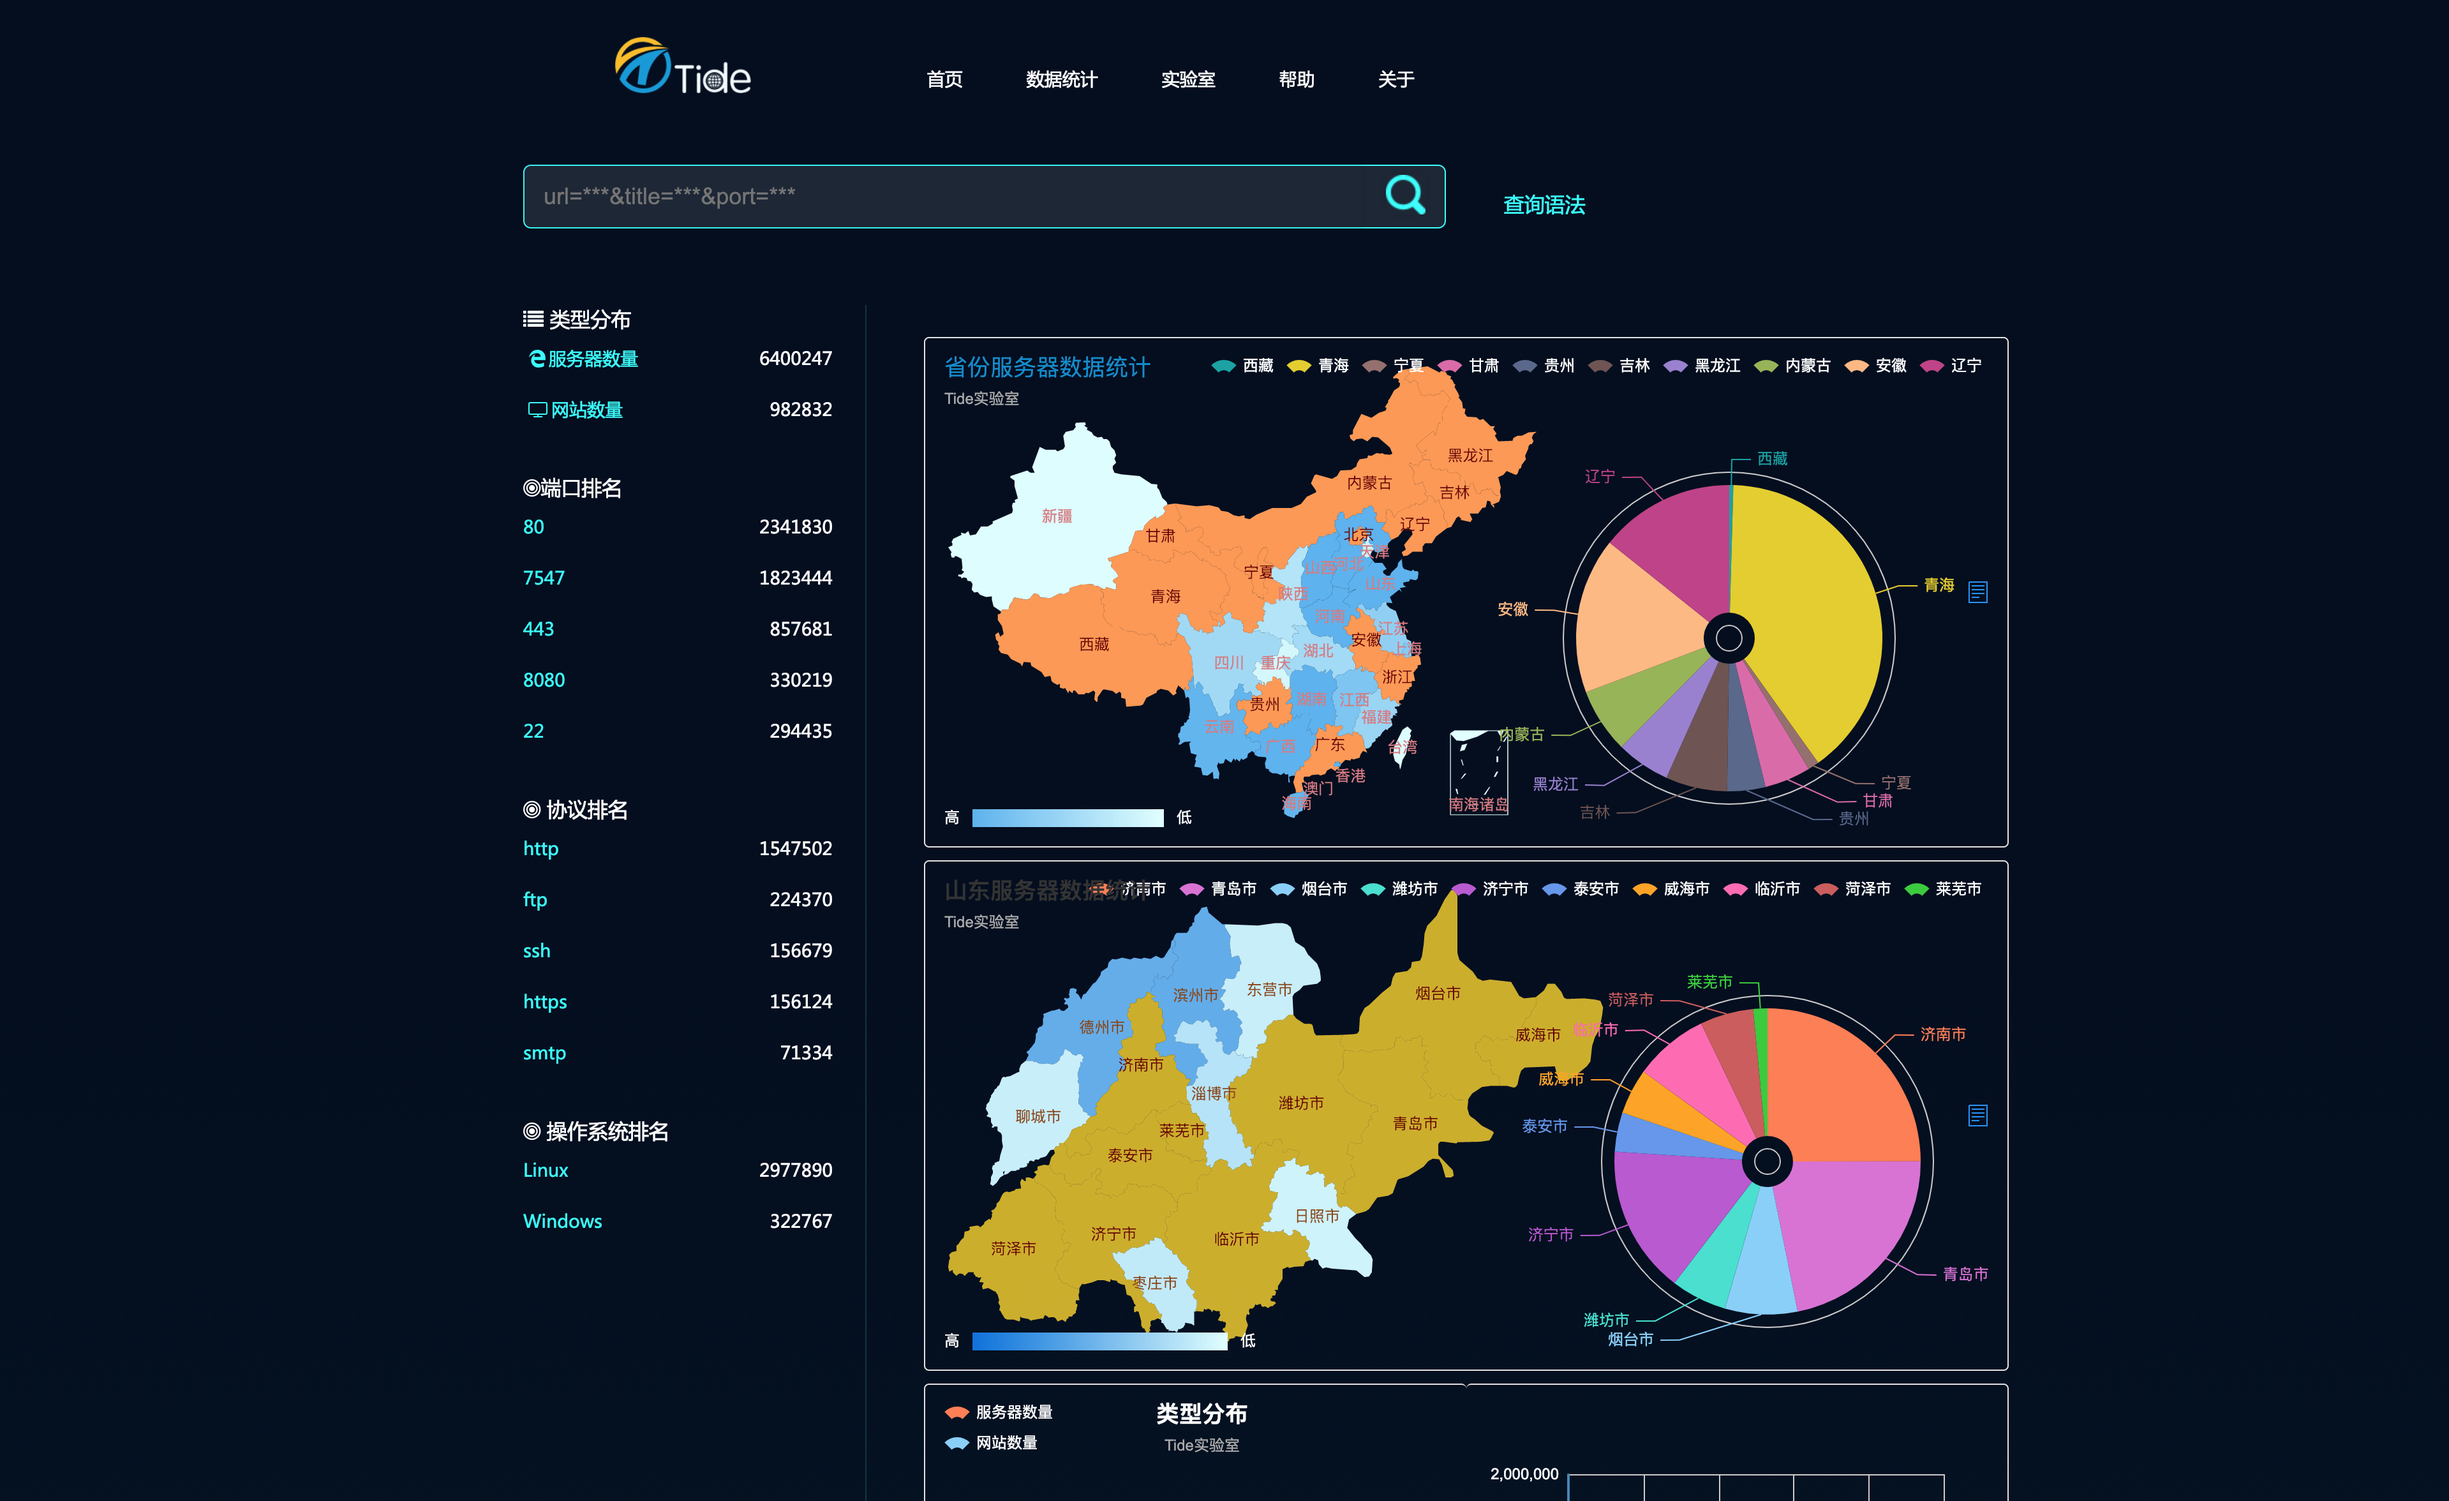
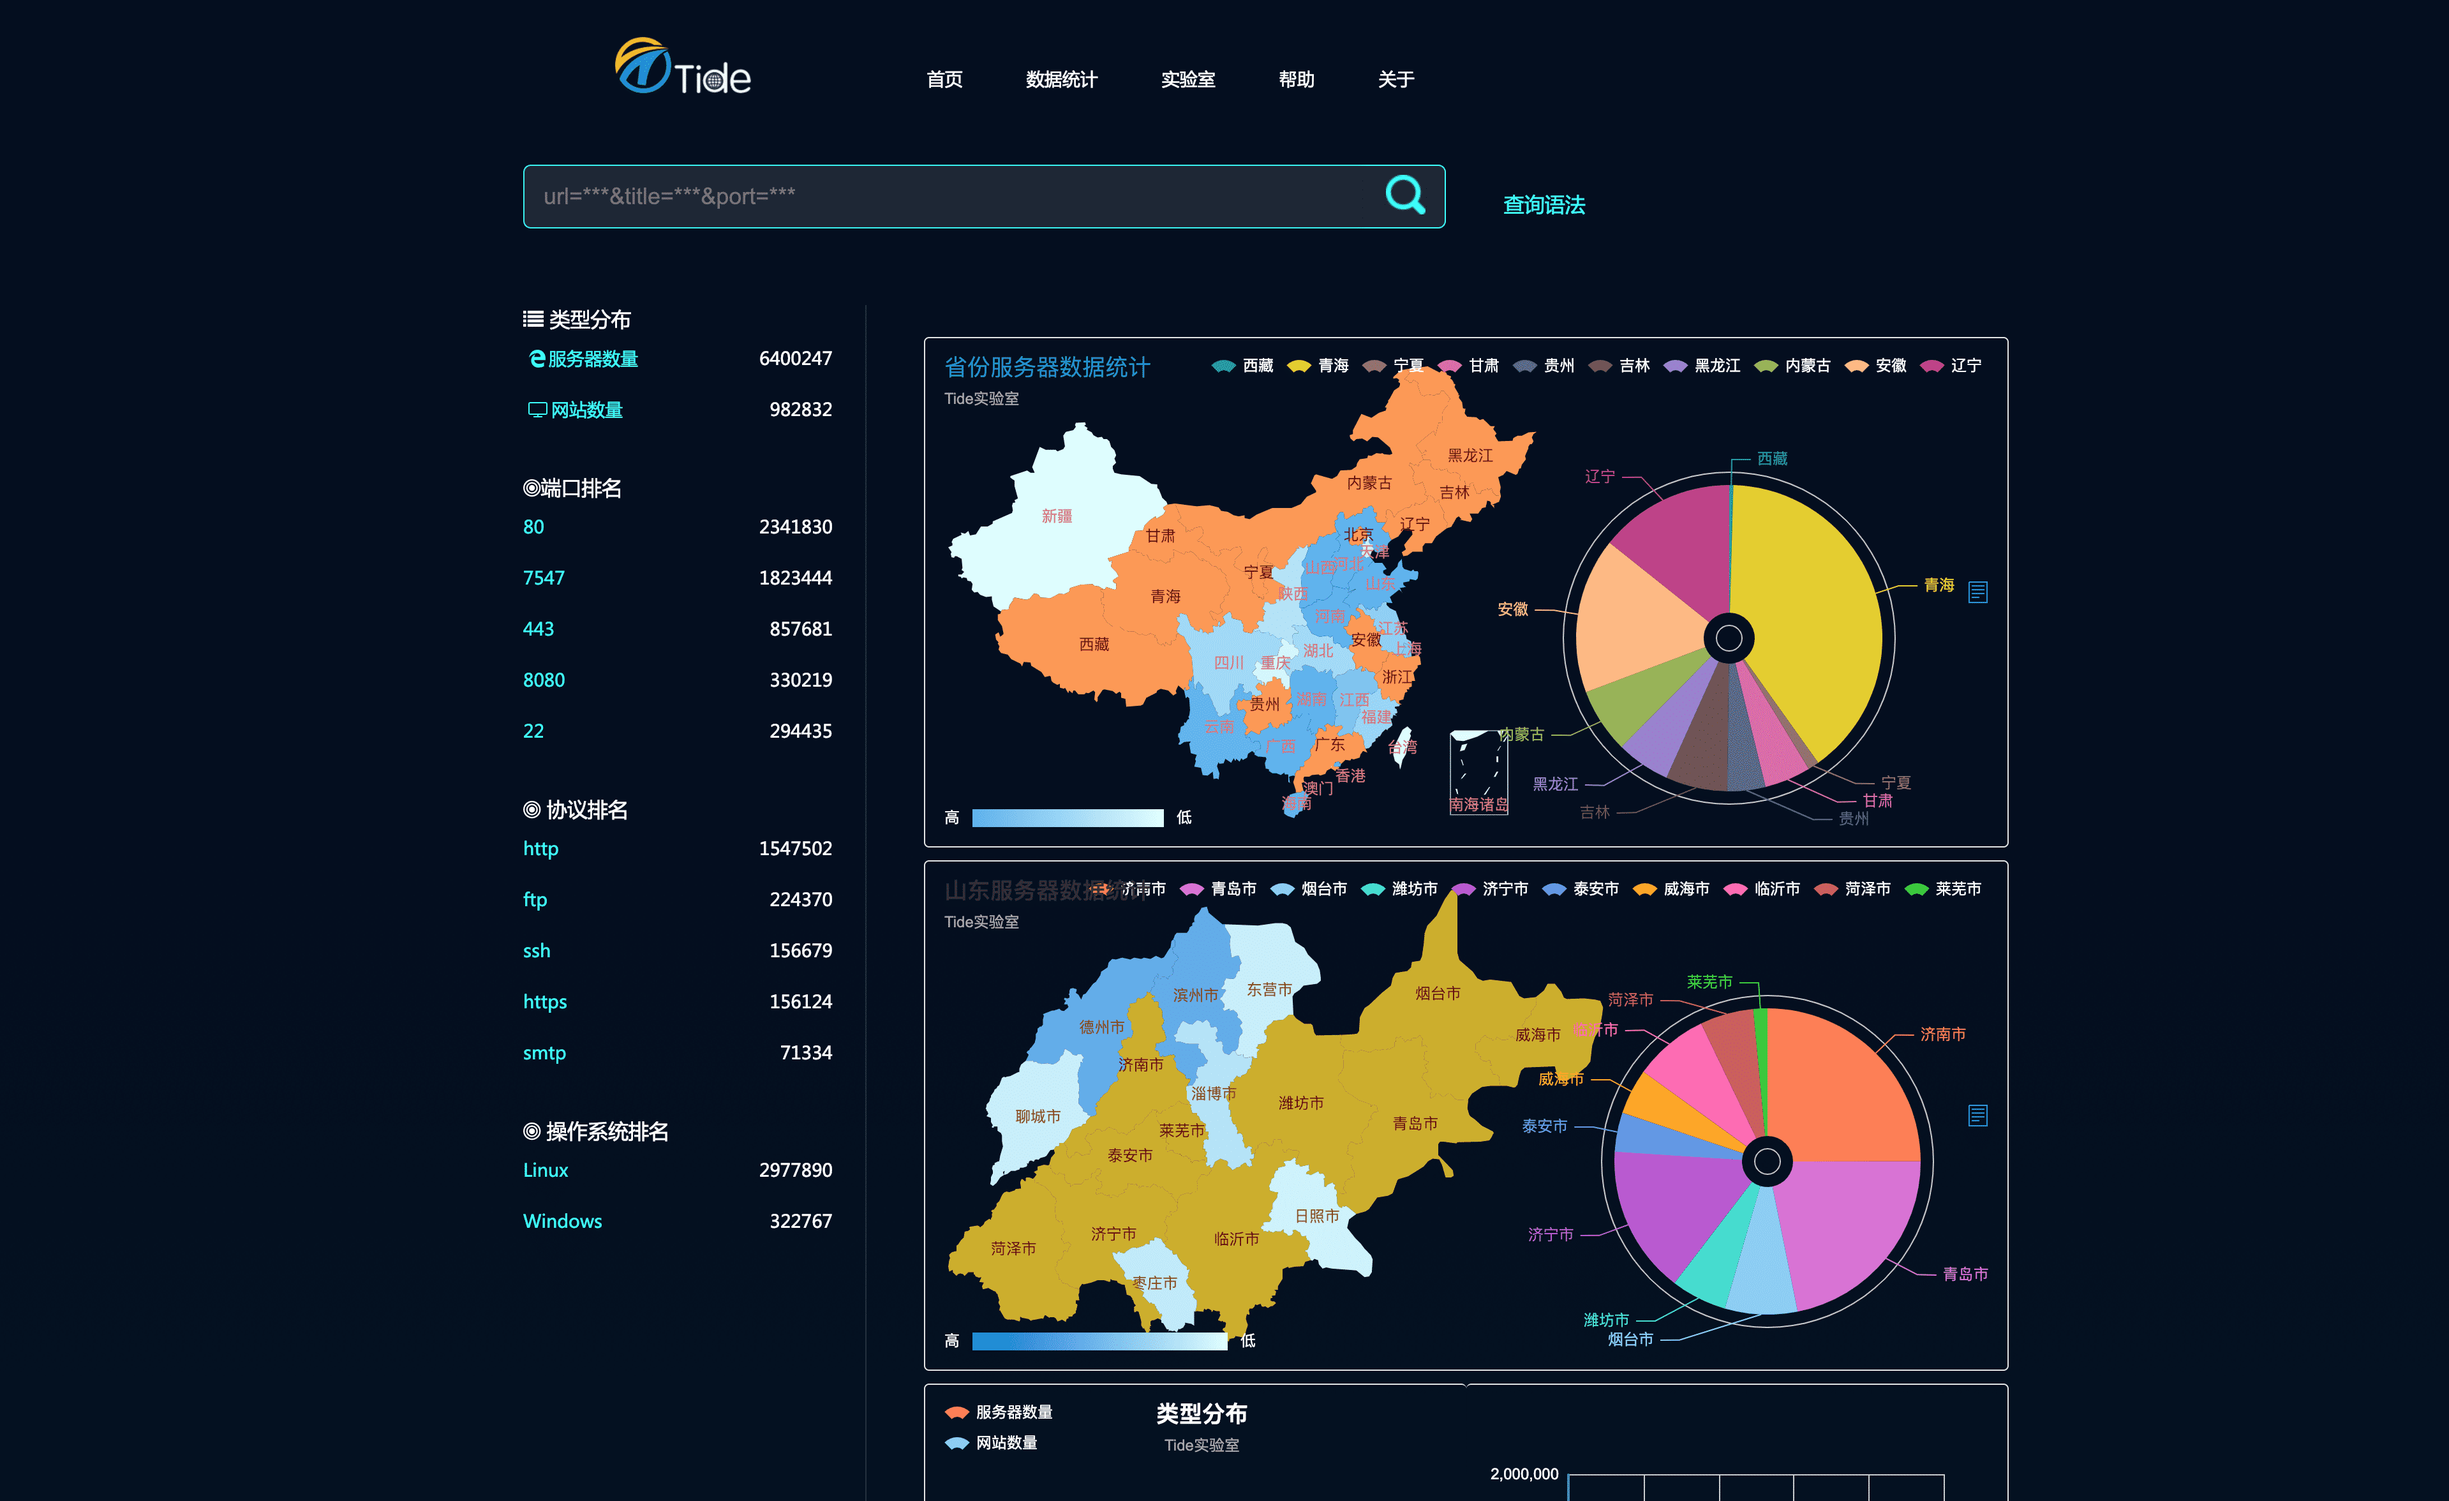
Update README

diff --git a/README.md b/README.md
@@ -66,7 +66,7 @@ tips4:感谢Xxlm、Yune、紫瀚等团队成员的长期付出（www.tidesec.net
 
 查询主界面，各种协议、端口总量的展示，平台的简介等。
 
-![pic](images/pic1.png)
+![pic](images/pic1.jpg)
 
 - 数据统计
 
